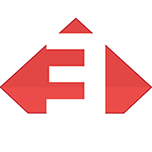
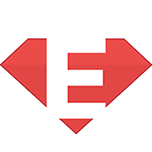
Upside down new filename

Changed region(s): [[0.0, 0.2368, 1.0, 0.7632], [0.3684, 0.7632, 0.6316, 0.8947], [0.3684, 0.1053, 0.6316, 0.2368]]

diff --git a/index.html b/index.html
@@ -3,10 +3,10 @@
   <head>
     <title>Eruby - Rails development</title>
     <link rel="stylesheet" type="text/css" href="style.css">
-    <link rel="apple-touch-icon" href="touch-icon-iphone.png">
-    <link rel="apple-touch-icon" sizes="76x76" href="touch-icon-ipad.png">
-    <link rel="apple-touch-icon" sizes="120x120" href="touch-icon-iphone-retina.png">
-    <link rel="apple-touch-icon" sizes="152x152" href="touch-icon-ipad-retina.png">
+    <link rel="apple-touch-icon" href="upside-down-touch-icon-iphone.png">
+    <link rel="apple-touch-icon" sizes="76x76" href="upside-down-touch-icon-ipad.png">
+    <link rel="apple-touch-icon" sizes="120x120" href="upside-down-touch-icon-iphone-retina.png">
+    <link rel="apple-touch-icon" sizes="152x152" href="upside-down-touch-icon-ipad-retina.png">
   </head>
   <body>
     <div class="logo">
